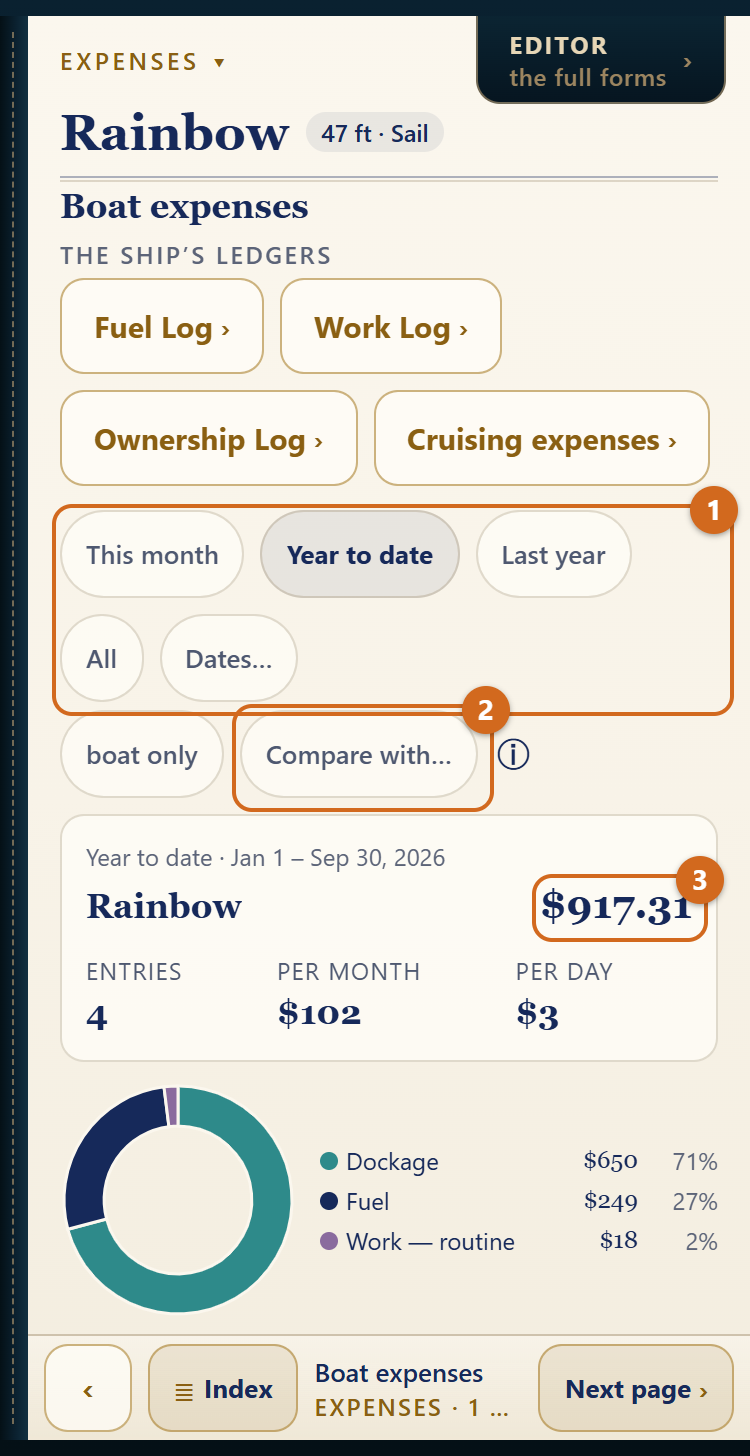
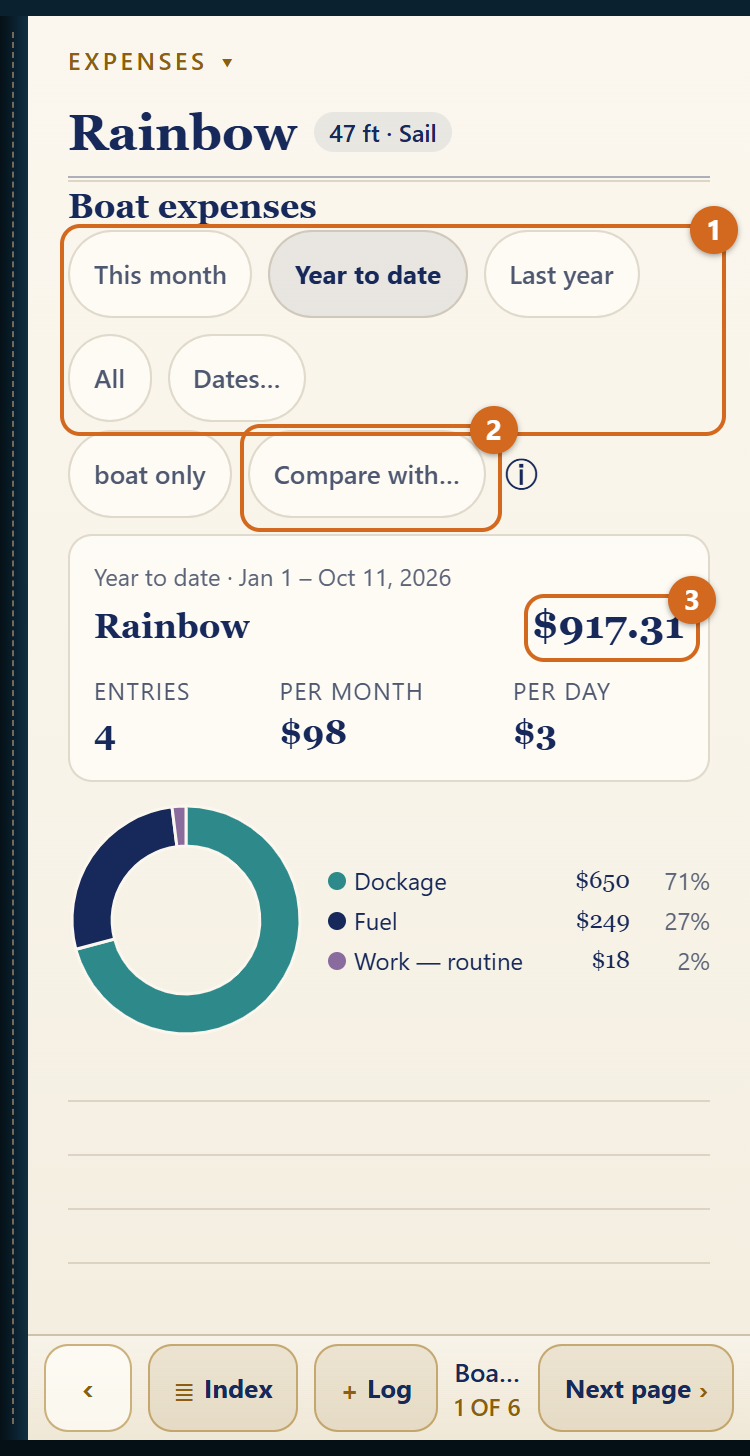
Manifest 2.3.0 release (on Jerry's word, 2026-10-12): index, support, guide and the guide's six pictures from rainbows-manifest master (pass D); privacy unchanged

diff --git a/manifest/guide.html b/manifest/guide.html
@@ -87,13 +87,13 @@
 <main>
   <h1>Rainbow&rsquo;s End Manifest — the guide</h1>
   <p class="meta">Every job in the book, in the order you meet them: setting her up, then the moments aboard, then a reference to every page. On the phone, the book’s Quick reference (at the back, after Maintenance) says where each job lives; this guide says how to do it.</p>
-  <figure><img src="guide/s6-quick-reference.png" width="375" height="728" alt="The Quick reference in the book" loading="lazy" /><figcaption><strong>The Quick reference in the book.</strong> <b class="n">1</b> A job, and where it lives: tap it to open the page. <b class="n">2</b> Check her over opens Before you go.</figcaption></figure>
-  <nav class="toc"><p class="toc-h">Contents</p><ol><li><a href="#setup">Setting her up</a></li><li><a href="#alongside">Alongside for a boarding</a></li><li><a href="#guests">At the dock with guests</a></li><li><a href="#underway">Under way</a></li><li><a href="#after">After the fact</a></li><li><a href="#yearsend">At year’s end</a></li><li><a href="#housekeeping">Housekeeping</a></li><li><a href="#pages">Every page, one line each</a></li><li><a href="#editor">The Editor’s five tabs</a></li><li><a href="#glossary">Glossary — the app’s own words</a></li></ol></nav>
+  <figure><img src="guide/s6-quick-reference.png" width="375" height="728" alt="The Quick reference in the book" loading="lazy" /><figcaption><strong>The Quick reference in the book.</strong> <b class="n">1</b> A job, and where it lives: tap it to open the page. <b class="n">2</b> Before you go opens the checks.</figcaption></figure>
+  <nav class="toc"><p class="toc-h">Contents</p><ol><li><a href="#setup">Setting up your boat</a></li><li><a href="#alongside">Alongside for a boarding</a></li><li><a href="#guests">At the dock with guests</a></li><li><a href="#underway">Under way</a></li><li><a href="#after">After the fact</a></li><li><a href="#yearsend">At year’s end</a></li><li><a href="#housekeeping">Housekeeping</a></li><li><a href="#pages">Every page, one line each</a></li><li><a href="#forms">The forms</a></li><li><a href="#glossary">Glossary — the app’s own words</a></li></ol></nav>
     <h2 class="part">Part 1 — By moment</h2>
-  <h3 id="setup">Setting her up</h3>
+  <h3 id="setup">Setting up your boat</h3>
   <h4>Start</h4>
   <ol><li>Open the app. The first page says what it does.</li><li>Tap <strong>Set up your boat</strong> to start your own, or <strong>Explore with Rainbow first</strong> to look around the sample ketch. Your own boat never mixes with Rainbow’s.</li></ol>
-  <h4>Tell it about her once</h4>
+  <h4>Tell it about your boat once</h4>
   <p>On Her papers, tap <strong>Edit boat</strong>. Four answers set the gear list: her length (LOA sets the equipment class), propulsion, fuel, and inland or coastal waters. Then, in any order:</p>
   <ul><li>Her papers and identity: registration, official number, HIN, hailing port.</li><li>Owners and radio: the owners, the people in charge, call sign, MMSI. The MAYDAY card on the briefing reads these.</li><li>Systems: heads, generator, air conditioning, propane, shore power, solar and wind, batteries.</li><li>Tanks: each fuel and water tank with its capacity, the burn rates, the water maker.</li><li>Hour meters: each engine’s and the generator’s reading today. The log’s running totals start from these, and the maintenance schedule comes due by them.</li><li>The vessel: hull color, identifying features and a photo — what a float plan or a search asks for.</li></ul>
   <p>Tap <strong>Done</strong>. Every page redraws from her. Change her length later and the Gear list redraws with it.</p>
@@ -102,38 +102,38 @@
   <h4>Another boat</h4>
   <p>Her papers › <strong>New boat</strong>. Each boat keeps her own book: gear, dates, log and ledgers never mix. The chips under The fleet switch between them.</p>
   <h3 id="alongside">Alongside for a boarding</h3>
-  <figure><img src="guide/s1-her-papers.png" width="375" height="728" alt="Her papers" loading="lazy" /><figcaption><strong>Her papers.</strong> <b class="n">1</b> What's expired or due. <b class="n">2</b> Where things are stowed. <b class="n">3</b> The day's buttons.</figcaption></figure>
+  <figure><img src="guide/s1-her-papers.png" width="375" height="728" alt="Her papers" loading="lazy" /><figcaption><strong>Her papers.</strong> <b class="n">1</b> What's expired or due. <b class="n">2</b> Where things are stowed. <b class="n">3</b> Log: the day, a fill, the work, an expense.</figcaption></figure>
   <p>The book opens on Her papers, or on the page you left if you were there in the last twelve hours.</p>
-  <ul><li><strong>Her numbers.</strong> Her papers shows the registration, official number and HIN. Owners &amp; radio, the next page, shows the call sign and MMSI.</li><li><strong>Where something is stowed.</strong> Tap <strong>Where things are stowed</strong> on Her papers, or type the item in the Index: “flares”, “extinguisher”.</li><li><strong>The required gear.</strong> Gear › What’s aboard lists the federal minimum for her, each item with its citation, its expiry and where it is stowed. Beyond the minimum follows, kept apart. The federal items are minimums; state law can add to them.</li><li><strong>What’s expired or due.</strong> The line at the head of Her papers counts it; tap it for Maintenance › Attention.</li><li><strong>Clearing in abroad.</strong> Gear › Inventory is her declaration: firearms (even “none”), equipment with serials, alcohol and tobacco, medications, food, animals. Record it in the Editor’s Gear tab; <strong>Share the list</strong> hands an official the whole thing as text.</li></ul>
+  <ul><li><strong>Her numbers.</strong> Her papers shows the registration, official number and HIN. Owners &amp; radio, the next page, shows the call sign and MMSI.</li><li><strong>Where something is stowed.</strong> Tap <strong>Where things are stowed</strong> on Her papers, or type the item in the Index: “flares”, “extinguisher”.</li><li><strong>The required gear.</strong> Gear › What’s aboard lists the federal minimum for her, each item with its citation, its expiry and where it is stowed. Beyond the minimum follows, kept apart. The federal items are minimums; state law can add to them.</li><li><strong>What’s expired or due.</strong> The line at the head of Her papers counts it; tap it for Maintenance › Attention.</li><li><strong>Clearing in abroad.</strong> Gear › Inventory is her declaration: firearms (even “none”), equipment with serials, alcohol and tobacco, medications, food, animals. Record it under <strong>Add to the inventory</strong>; <strong>Share the list</strong> hands an official the whole thing as text.</li></ul>
   <figure><img src="guide/s2-index-search.png" width="375" height="728" alt="The Index" loading="lazy" /><figcaption><strong>The Index.</strong> <b class="n">1</b> Type the item. <b class="n">2</b> Tap the page it is on.</figcaption></figure>
   <h3 id="guests">At the dock with guests</h3>
-  <h4>Check her over</h4>
+  <h4>Before you go</h4>
   <ol><li>Checklists › <strong>Before you go</strong>. The list is drawn from her: a gasoline inboard gets the blower, a sailboat her rig and jacklines.</li><li>Tick each line as you check it. Your ticks keep for the next departure.</li><li>Ticks more than a day old ask “still good?” Tap <strong>Keep them</strong>, or <strong>Start over</strong> to clear them.</li></ol>
   <figure><img src="guide/s4-before-you-go.png" width="375" height="728" alt="The Checklists page, two days after the ticks" loading="lazy" /><figcaption><strong>The Checklists page, two days after the ticks.</strong> <b class="n">1</b> The question. <b class="n">2</b> Keep them. <b class="n">3</b> Start over.</figcaption></figure>
   <p>The float plan line opens Rainbow’s End Float Plan. Leave word ashore before you leave the dock.</p>
   <h4>Brief your guests</h4>
-  <ol><li>Checklists › <strong>Briefing</strong>: four pages — calling for help, where things live, crew overboard, the rules.</li><li>Read them through with your guests aboard.</li><li>On the last page, tap <strong>Briefing given</strong>. The mark stands 24 hours; <strong>Undo</strong> takes it back.</li></ol>
+  <ol><li>Checklists › <strong>Briefing</strong>: four pages — calling for help, where things are stowed, crew overboard, the rules.</li><li>Read them through with your guests aboard.</li><li>On the last page, tap <strong>Briefing given</strong>. The mark stands 24 hours; <strong>Undo</strong> takes it back.</li></ol>
   <p>The day’s entry records both: the log reads “checked 14 of 15 · briefed 08:40“.</p>
   <h3 id="underway">Under way</h3>
   <h4>Start a voyage</h4>
   <p>A voyage is a trip under one name: a day sail, or weeks of legs and lay days.</p>
-  <ol><li>Her papers › <strong>Log the day</strong>.</li><li>Type a name under <strong>Voyage</strong> and tap <strong>Start</strong>.</li><li>Every entry collects under it until you tap <strong>End the voyage</strong> on the day’s entry. After seven days with nothing logged, the book asks whether she is still under way.</li></ol>
+  <ol><li><strong>Log</strong>, at the foot of any page › <strong>Log the day</strong>.</li><li>Type a name under <strong>Voyage</strong> and tap <strong>Start</strong>.</li><li>Every entry collects under it until you tap <strong>End the voyage</strong> on the day’s entry. After seven days with nothing logged, the book asks whether she is still under way.</li></ol>
   <h4>Log the day</h4>
-  <ol><li>Her papers › <strong>Log the day</strong>.</li><li>Choose <strong>Under way</strong> for a day that moves her, or <strong>Lay day aboard</strong> for a day at anchor or in a marina away from home.</li><li>Fill in the date, the times, where from and where to, the distance, the engine hours (the start is filled in from her hour meter), the persons aboard, the weather and the journal.</li><li>If the check or the briefing was done, their chips are on: <strong>Record the predeparture check</strong>, <strong>Record the briefing</strong>.</li><li>Tap <strong>Log the day</strong>.</li></ol>
+  <ol><li><strong>Log</strong>, at the foot of any page › <strong>Log the day</strong>.</li><li>Choose <strong>Under way</strong> for a day that moves her, or <strong>Lay day aboard</strong> for a day at anchor or in a marina away from home.</li><li>Fill in the date, the times, where from and where to, the distance, the engine hours (the start is filled in from her hour meter), the persons aboard, the weather and the journal.</li><li>If the check or the briefing was done, their chips are on: <strong>Record the predeparture check</strong>, <strong>Record the briefing</strong>.</li><li>Tap <strong>Log the day</strong>.</li></ol>
   <h4>A passage of a day or more</h4>
   <figure><img src="guide/s3-days-entry.png" width="375" height="728" alt="The day&#x27;s entry" loading="lazy" /><figcaption><strong>The day’s entry.</strong> <b class="n">1</b> The kind of day. <b class="n">2</b> Name the voyage and tap Start. <b class="n">3</b> The day she arrives, for a passage logged after the fact. Log the departure is at the foot of the page.</figcaption></figure>
   <ol><li>As you leave, fill in the day’s entry and tap <strong>Log the departure</strong>. The entry is saved as under way; every day at sea counts toward the voyage and the water estimate.</li><li>When you get in, tap <strong>Arrived</strong> at the top of the day’s entry. The same entry opens with the arrival day set.</li><li>Add the arrival time and engine hours, take the miles the watches logged, and tap <strong>Log the arrival</strong>.</li></ol>
   <p>To log a whole passage after you arrive, use the <strong>Arrives</strong> stepper under the times to set the day she got in.</p>
   <h4>The change of watch</h4>
-  <ol><li>Her papers › <strong>Log the watch</strong>, or <strong>Change of watch</strong> on the day’s entry.</li><li>Write the time in local time or UTC; the page shows the other.</li><li><strong>Fill from GPS</strong>, or type the position as you would on a chart: 29 18.4 N, 94 47.2 W.</li><li>Add course and speed, wind, sea, barometer (or tap to read the phone’s own), sky, sails, engine, and who kept the watch. Wind, sea, sky, sails and engine carry over from the last watch.</li><li>Tap <strong>Log the watch</strong>.</li></ol>
+  <ol><li><strong>Log</strong>, at the foot of any page › <strong>Log the watch</strong>, or <strong>Change of watch</strong> on the day’s entry.</li><li>Write the time in local time or UTC; the page shows the other.</li><li><strong>Fill from GPS</strong>, or type the position as you would on a chart: 29 18.4 N, 94 47.2 W.</li><li>Add course and speed, wind, sea, barometer (or tap to read the phone’s own), sky, sails, engine, and who kept the watch. Wind, sea, sky, sails and engine carry over from the last watch.</li><li>Tap <strong>Log the watch</strong>.</li></ol>
   <p>From the second position on, the page works out the distance, speed and course made good. The barometer’s three-hour trend is given in the forecast’s words, and a quick fall is flagged. Watches add no miles or hours to the voyage.</p>
   <h4>Fuel and water aboard</h4>
   <p>Log › Estimated fuel &amp; water. Each figure is an estimate and says what it runs from: a measured level, a fill marked topped off, or nothing yet. The gauge outranks the arithmetic.</p>
   <h3 id="after">After the fact</h3>
   <h4>Log a fill</h4>
-  <ol><li>Her papers › <strong>Log a fill</strong>. The form opens over the Fuel Log.</li><li>Fill in the date, gallons, price and dock. Mark <strong>topped off</strong> if she was; the estimate starts over from full.</li><li>The voyage chip proposes the voyage for that date. Tap another, or <strong>none</strong>.</li><li>Tap <strong>Log the fill</strong>.</li></ol>
+  <ol><li><strong>Log</strong>, at the foot of any page › <strong>Log a fill</strong>. The form opens over the Fuel Log.</li><li>Fill in the date, gallons, price and dock. Mark <strong>topped off</strong> if she was; the estimate starts over from full.</li><li>The voyage chip proposes the voyage for that date. Tap another, or <strong>none</strong>.</li><li>Tap <strong>Log the fill</strong>.</li></ol>
   <h4>Log the work, a cost or an expense</h4>
-  <ul><li><strong>The work</strong> — repairs, routine maintenance, equipment added: Her papers › <strong>Log the work</strong>.</li><li><strong>A cost</strong> — the home slip, storage, insurance, registration, dues: Her papers › <strong>Log a cost</strong>.</li><li><strong>An expense on a voyage</strong> — provisions, meals ashore, fees and permits, transport ashore, moorings and transient slips: Her papers › <strong>Log an expense</strong> (the button reads so while a voyage is under way). The ⓘ beside Category says what each category takes.</li></ul>
+  <ul><li><strong>The work</strong> — repairs, routine maintenance, equipment added: <strong>Log</strong> › <strong>Log the work</strong>.</li><li><strong>An expense of the boat</strong> — the home slip, storage, insurance, registration, dues: <strong>Log</strong> › <strong>Log an expense</strong>.</li><li><strong>An expense on a voyage</strong> — provisions, meals ashore, fees and permits, transport ashore, moorings and transient slips: <strong>Log</strong> › <strong>Log an expense</strong> while a voyage is under way. The ⓘ beside Category says what each category takes.</li></ul>
   <h4>Measure a tank</h4>
   <ul><li>Fuel: Expenses › Fuel Log › <strong>Measure</strong> on the tank’s line. Set the level by the quarters or in gallons.</li><li>Water: Log › Estimated fuel &amp; water: <strong>Topped off today</strong>, or type the measured level.</li></ul>
   <h4>Correct or delete an entry</h4>
@@ -144,7 +144,7 @@
   <h3 id="yearsend">At year’s end</h3>
   <h4>Choose the dates</h4>
   <p>Every ledger and the log open on year to date. At the head of the record, tap <strong>This month</strong>, <strong>Year to date</strong>, <strong>Last year</strong>, <strong>All</strong> or <strong>Dates…</strong>. The choice carries from page to page while the app is open.</p>
-  <h4>What she cost</h4>
+  <h4>What the voyage cost</h4>
   <ol><li>Expenses › <strong>Boat expenses</strong>: the total for the dates, by category. It counts fuel, work and ownership; tap the <strong>boat only</strong> chip to add the fourth ledger, and it reads <strong>with cruising expenses</strong>.</li><li>Tap <strong>Compare with…</strong> to set a second period beside it — the same dates last year, the whole of last year, or dates you type — with the difference in dollars and percent.</li></ol>
   <figure><img src="guide/s5-boat-expenses.png" width="375" height="728" alt="Boat expenses" loading="lazy" /><figcaption><strong>Boat expenses.</strong> <b class="n">1</b> The dates. <b class="n">2</b> Compare with…. <b class="n">3</b> The total for the dates.</figcaption></figure>
   <h4>Send the year’s expenses</h4>
@@ -152,7 +152,7 @@
   <h4>What a voyage cost</h4>
   <p>Log › <strong>Voyage expenses</strong>, the page after the voyage card: the total, per day and per nautical mile, by category, from all four ledgers. Entries in the voyage’s dates without a voyage are listed with a button to assign them.</p>
   <h4>Sea service</h4>
-  <p>Log › <strong>Sea service</strong> tallies what the CG-719S asks for each year: the days (four hours or more under way, by default), the hours, the dates and the waters. Set the waters on each day’s entry, and gross tonnage on the Editor’s Boat tab. Tap <strong>Share as text</strong> to copy the figures onto the form. You attest them; the app prepares them.</p>
+  <p>Log › <strong>Sea service</strong> tallies what the CG-719S asks for each year: the days (four hours or more under way, by default), the hours, the dates and the waters. Set the waters on each day’s entry, and gross tonnage under Edit boat. Tap <strong>Share as text</strong> to copy the figures onto the form. You attest them; the app prepares them.</p>
   <h4>A voyage’s track</h4>
   <p>Log › The log › <strong>Share as GPX</strong> on the voyage card: a track for each passage, a point for each watch that carried a position. Open it in your chart app.</p>
   <h3 id="housekeeping">Housekeeping</h3>
@@ -177,9 +177,9 @@
   <h4>The Boat</h4>
   <ul><li>Her papers — what’s due, the stowage door, the day’s buttons, the fleet, her identity.</li><li>Owners &amp; radio — call sign, MMSI, owners and who’s in charge.</li><li>Dimensions &amp; propulsion — LOA, beam, draft, air draft; engines; waters.</li><li>Systems aboard — heads, generator, air conditioning, propane, sea water.</li><li>Power — shore power, wind, solar, batteries.</li><li>Capacities — tanks and burn rates.</li></ul>
   <h4>Gear</h4>
-  <ul><li>What’s aboard — the federal minimum for her, with expiry and stowage.</li><li>Federal requirements, continued — the rest of the minimum.</li><li>Beyond the minimum — the recommended gear.</li><li>Inventory — the declaration for clearing in.</li></ul>
+  <ul><li>What’s aboard — the federal minimum for her, with expiry and stowage.</li><li>Beyond the minimum — the recommended gear.</li><li>Inventory — the declaration for clearing in.</li></ul>
   <h4>Checklists</h4>
-  <ul><li>Checklists — the doors to Before you go and the briefing.</li><li>Before you go — the boat; on deck — the skipper’s predeparture check.</li><li>Briefing — calling for help; where things live; crew overboard; the rules — the passenger briefing, Briefing given on the last.</li></ul>
+  <ul><li>Checklists — the doors to Before you go and the briefing.</li><li>Before you go — the boat; on deck — the skipper’s predeparture check.</li><li>Briefing — calling for help; where things are stowed; crew overboard; the rules — the passenger briefing, Briefing given on the last.</li></ul>
   <h4>Log</h4>
   <ul><li>Estimated fuel &amp; water — what is aboard, and what each figure runs from.</li><li>The day’s entry — a day under way, a lay day, a passage.</li><li>The change of watch — while under way, or once asked for.</li><li>The log — the days, the voyage card, the miles under her keel.</li><li>Voyage expenses — what a voyage cost.</li><li>Sea service — the figures for the CG-719S.</li><li>The watches — the watches logged, newest first.</li></ul>
   <h4>Expenses</h4>
@@ -187,10 +187,10 @@
   <h4>Maintenance</h4>
   <ul><li>Attention — what is expired, overdue or due soon.</li><li>The schedule — every item, its last date and hour meter.</li></ul>
   <h4>Quick reference</h4>
-  <ul><li>Four pages: where each job lives.</li></ul>
-  <h3 id="editor">The Editor’s five tabs</h3>
-  <p>Open the Editor from the tab at the top of any page; <strong>The Book</strong> on its bar brings you back.</p>
-  <ul><li><strong>Boat</strong> — the full manifest, the fleet, iCloud sync, Export and Import.</li><li><strong>Gear</strong> — every item, aboard or not, its stowage and dates; the Inventory.</li><li><strong>Briefing</strong> — the briefing in one scroll, and Briefing given.</li><li><strong>Log</strong> — every day and voyage, searchable by name, place, weather, journal or date.</li><li><strong>Maintenance</strong> — the whole schedule, and the ledgers’ totals by month, year and category.</li></ul>
+  <ul><li>Where each job lives — one page.</li></ul>
+  <h3 id="forms">The forms</h3>
+  <p>Each opens over its page; <strong>Done</strong> returns you.</p>
+  <ul><li><strong>Edit boat</strong>, on Her papers — the full manifest, the fleet, iCloud sync, Export and Import; About this app at its foot.</li><li><strong>Log the gear</strong> and <strong>Add to the inventory</strong>, on the Gear pages — every item, aboard or not, its stowage and dates; the Inventory.</li><li><strong>Every entry</strong>, on The log — every day and voyage, searchable by name, place, weather, journal or date, with Arrived and Delete.</li></ul>
   <h3 id="glossary">Glossary — the app’s own words</h3>
   <ul><li><strong>Federal minimum</strong> — what 33 CFR and 46 CFR require her to carry.</li><li><strong>Beyond the minimum</strong> — gear the app recommends; never counted as required.</li><li><strong>Hard date</strong> — a legal or safety expiration. Past it, the gear doesn’t count.</li><li><strong>Attention</strong> — everything expired or overdue, expirations within 60 days, service within 30 days or its hour margin.</li><li><strong>Replace, Inspect, Test, Clean, Exercise, Service, Renew</strong> — what the maintenance job is. Replace means new on schedule; Inspect means replace only what is worn.</li><li><strong>Voyage</strong> — entries collected under one name until you end it.</li><li><strong>Leg</strong> — a day’s entry under way.</li><li><strong>Lay day</strong> — a day aboard without getting under way.</li><li><strong>Passage</strong> — a leg logged at departure and finished on arrival, however many days between.</li><li><strong>Watch</strong> — a change-of-watch record: time, position, weather. It adds no miles or hours.</li><li><strong>Estimate</strong> — a figure worked out, not read from a gauge. Each says what it runs from.</li><li><strong>Hour meter</strong> — an engine’s or generator’s running-hours meter.</li><li><strong>Persons aboard</strong> — on a day’s entry, the people aboard that day; on Gear, the most she is equipped for.</li><li><strong>The four ledgers</strong> — Fuel Log, Work Log, Ownership Log, Cruising expenses.</li><li><strong>Transport ashore</strong> — taxis, rental cars, ferries, excursions once you have arrived.</li><li><strong>Sea-service day</strong> — a calendar day with four hours or more under way (the threshold can be set to eight or twelve).</li><li><strong>Sounding</strong> — a tank’s level measured, by quarters or in gallons.</li></ul>
   <div class="contact">

diff --git a/manifest/support.html b/manifest/support.html
@@ -118,22 +118,19 @@
     Log, Expenses, and Maintenance. Held broad, on an iPad or a larger iPhone in landscape, the
     sections are leather tabs down the right edge and the book opens flat into a two-page
     spread; held narrow, one page at a time. The <strong>Index</strong> button at the foot of
-    every page lists every section and page and finds anything on them — flares, HIN, fuel.
+    every page lists the sections, opens any of them to its pages, and finds anything on them — flares, HIN, fuel.
     The book opens where you left it, and, while a passage is under way, on the day&rsquo;s entry.
     Every page reads from your real records.</p>
   </details>
 
   <details>
-    <summary>How do the book and the Editor relate?</summary>
-    <p>The book is for <strong>reviewing the record and making the day&rsquo;s entries</strong> —
-    reading her papers, checking what&rsquo;s aboard and where it&rsquo;s stowed, giving the briefing,
-    logging a day, a fill, work done, or a cost. The <strong>Editor</strong> holds every field
-    of every record, with search, and its own bar; <strong>The Book</strong>, leftmost on that
-    bar, brings you home. Open the Editor from the leather tab at the top of every page, or the
-    last row of the Index. For a single edit the book floats the form over the page instead —
-    <strong>Edit boat</strong> on the Boat pages, <strong>Log the gear</strong> on the Gear
-    pages — and <strong>Done</strong> returns you to your page. In the ledgers, tap an entry to
-    correct it in a sheet over the page.</p>
+    <summary>Where are the full forms?</summary>
+    <p>Over the page they belong to. <strong>Edit boat</strong> on Her papers opens the whole
+    manifest; <strong>Log the gear</strong> and <strong>Add to the inventory</strong> on the Gear
+    pages open the gear list; <strong>Every entry</strong> on The log opens the searchable log, with
+    Arrived and Delete on each day. <strong>Done</strong> returns you to your page. In the ledgers,
+    tap an entry to correct it in a sheet over the page. The <strong>Log</strong> button at the
+    foot of every page writes the day, a fill, the work or an expense.</p>
   </details>
 
   <h2>The checklist</h2>
@@ -168,8 +165,8 @@
     <p>Her standing declaration for clearing into another country, at the end of the Gear
     section: a firearms list (even &ldquo;none&rdquo; — that answer is itself the declaration), equipment
     and electronics with serials for temporary-import permits, dutiable alcohol and tobacco,
-    medications, foodstuffs for biosecurity, and animals. Record it once in the Editor&rsquo;s Gear
-    tab; <strong>Share the list</strong> hands an official the whole thing as plain text —
+    medications, foodstuffs for biosecurity, and animals. Record it once under Add to the inventory,
+    on the Inventory page; <strong>Share the list</strong> hands an official the whole thing as plain text —
     AirDrop it, print it, or show the page.</p>
   </details>
 
@@ -177,16 +174,15 @@
 
   <details>
     <summary>Why does the briefing show &ldquo;location not recorded&rdquo;?</summary>
-    <p>The briefing reads from the Gear tab. Check an item aboard and enter where it&rsquo;s stowed —
-    &ldquo;port cockpit locker&rdquo; — and the briefing&rsquo;s &ldquo;Where things live&rdquo; section says exactly that to
-    your guests. The MAYDAY card fills in your boat&rsquo;s name, call sign, and MMSI from the
-    Boat tab.</p>
+    <p>The briefing reads from the Gear pages. Check an item aboard and enter where it&rsquo;s stowed —
+    &ldquo;port cockpit locker&rdquo; — and the briefing&rsquo;s &ldquo;Where things are stowed&rdquo; page says exactly that to
+    your guests. The MAYDAY card fills in your boat&rsquo;s name, call sign, and MMSI from
+    Edit boat.</p>
   </details>
 
   <details>
     <summary>How do I record that my guests were briefed?</summary>
-    <p>Tap <strong>Briefing given</strong> at the end of the briefing, or at the foot of the Editor&rsquo;s
-    Briefing tab. <a href="guide.html#guests">Step by step in the guide&nbsp;&rsaquo;</a></p>
+    <p>Tap <strong>Briefing given</strong> at the end of the briefing. <a href="guide.html#guests">Step by step in the guide&nbsp;&rsaquo;</a></p>
   </details>
 
   <h2>The log</h2>
@@ -199,7 +195,7 @@
     strainer, a sailboat gets her rig and jacklines, a paddle craft keeps the short list. The
     lines print what the book already knows — the fuel and water estimates, the flare and
     extinguisher dates from Maintenance. Your ticks stay until the next departure. The leg you log records what was checked — the log
-    reads &ldquo;checked 14 of 15&rdquo;, and the Editor&rsquo;s card names the items missed — and the list clears
+    reads &ldquo;checked 14 of 15&rdquo;, and Every entry names the items missed — and the list clears
     for the next one. <strong>Start over</strong> clears it by hand. Ticks more than a day old ask
     whether they still hold.</p>
   </details>
@@ -208,14 +204,14 @@
     <summary>What&rsquo;s at the top of the first page?</summary>
     <p>What needs you, then the day&rsquo;s work. A line counts what is expired, overdue or due soon and
     opens the Attention page; <strong>Where things are stowed</strong> opens the briefing&rsquo;s page of
-    where each item lives. Then Log the day, Log a fill, Log the work and Log a cost — Log an
-    expense while a voyage is under way — each open its form. The rest of the page is her papers,
+    where each item lives. Then <strong>Log</strong>, at the foot of every page: the day, a fill,
+    the work, an expense. The rest of the page is her papers,
     and the fleet row beneath Edit boat switches boats mid-read.</p>
   </details>
 
   <details>
     <summary>What&rsquo;s a voyage? What&rsquo;s a lay day?</summary>
-    <p>Start a voyage — right on the day&rsquo;s-entry page or in the Editor — name it, and every
+    <p>Start a voyage right on the day&rsquo;s-entry page: name it, and every
     entry, legs and lay days alike, collects under it until you end it. A <strong>lay day</strong> is a day aboard without getting under
     way (at anchor, in a marina away from home): it keeps the water estimate honest and can log
     generator hours. Past voyages sit collapsed with their totals — days, legs, nautical miles, engine hours —
@@ -235,7 +231,7 @@
 
   <details>
     <summary>How do engine hours and the miles under her keel work?</summary>
-    <p>Enter each meter&rsquo;s reading on the Editor&rsquo;s Boat tab and the day&rsquo;s entry pre-fills
+    <p>Enter each meter&rsquo;s reading under Edit boat and the day&rsquo;s entry pre-fills
     &ldquo;Engine — start&rdquo; with the running total; log the finish reading and the total moves
     forward. Correct the figure on the Boat tab any time and the total restarts from the
     number you just entered. The miles under her keel work the same way: give the book the
@@ -259,7 +255,7 @@
   <details>
     <summary>Can I put photos on a day in the log?</summary>
     <p>Yes, up to twelve a day. On the day&rsquo;s entry before you log it, or on a logged day in the
-    book&rsquo;s log pages or on the Editor&rsquo;s Log tab, tap <strong>Add photos</strong> to choose from your library, or <strong>Take a
+    book&rsquo;s log pages or under Every entry, tap <strong>Add photos</strong> to choose from your library, or <strong>Take a
     photo</strong>. The app keeps a 1,200-pixel copy and a thumbnail, about 200&nbsp;KB a photo;
     your originals stay in the Photos app at full size. A strip of thumbnails sits under the
     day; tap one for the full-screen viewer, where you can swipe through the day, write a
@@ -314,8 +310,8 @@
     the home slip and storage, insurance, registration and taxes, utilities, dues. The
     <strong>Cruising expenses</strong> ledger: what a voyage spends beyond the boat herself —
     provisions, meals ashore, fees and permits, transport ashore, and the moorings and transient
-    slips along the way. Buttons at the head of the Expenses page jump to each ledger, and the
-    Maintenance tab in the Editor keeps the tally: totals by month, year, and category. Every entry in every ledger can name the voyage it
+    slips along the way. The four ledgers follow the Boat expenses pages, which
+    keep the tally: totals by month, year, and category. Every entry in every ledger can name the voyage it
     belongs to; the form proposes one from the date, and &ldquo;none&rdquo; is a real answer.
     Entries without a price still belong in their logs; they do not tally.</p>
   </details>
@@ -324,7 +320,7 @@
     <summary>Where are my older entries?</summary>
     <p>In the same record, a tap away. Each ledger and the log open on year to date; tap
     <strong>Last year</strong>, <strong>All</strong>, or <strong>Dates…</strong> at the head of the record, and every entry in those
-    dates is there, running onto more pages as it needs. The choice carries from one ledger to the
+    dates is there, on one page that scrolls. The choice carries from one ledger to the
     next while the app is open.</p>
   </details>
 
@@ -348,13 +344,13 @@
     the first and last dates, and the split by waters. A day is a calendar day; a passage spanning
     days credits each by its share of the hours; lay days never count. The waters — Inland,
     Near-coastal, Great Lakes, Oceans — are set on each day&rsquo;s entry, the boat&rsquo;s own setting the
-    fallback. Gross tonnage, which the form asks, has a field on the Editor&rsquo;s Boat tab.
+    fallback. Gross tonnage, which the form asks, has a field under Edit boat.
     <strong>Share as text</strong> hands the summary to the share sheet shaped for copying onto the form.</p>
   </details>
 
   <details>
     <summary>Can I get a voyage&rsquo;s track into my chart app?</summary>
-    <p>Yes, as GPX. The voyage card in the Log — and the voyage&rsquo;s group on the Editor&rsquo;s Log tab —
+    <p>Yes, as GPX. The voyage card in the Log — and the voyage&rsquo;s group under Every entry —
     has <strong>Share as GPX</strong>: one file for the voyage, a track per passage, each watch that
     carried a position a point in UTC. The track is exactly as dense as the watches were — a
     four-hour schedule gives a point every four hours — because the app keeps watches, not a
@@ -422,7 +418,7 @@
     the item comes due at <strong>whichever arrives first</strong>, the months or the hours —
     exactly what &ldquo;100 h or annually&rdquo; has always meant. A boat that sat all winter comes due
     by the calendar; a boat that crossed the Gulf in May comes due by the hours. If you haven&rsquo;t set
-    the hour-meter readings on the Editor&rsquo;s Boat tab, nothing changes — the schedule runs on the
+    the hour-meter readings under Edit boat, nothing changes — the schedule runs on the
     calendar alone, as before. Shared items like the Racor separators score against the
     hardest-working engine&rsquo;s meter.</p>
   </details>

diff --git a/manifest/index.html b/manifest/index.html
@@ -76,17 +76,17 @@
         generator to a diesel boat and the ventilation rules come with it.</span></li>
       <li><strong>A briefing written from where your gear is</strong><span>Record that the
         flares live in the port cockpit locker and the passenger briefing says so, in those words. It
-        carries a MAYDAY card with her name, call sign, and MMSI already filled in, and the
+        carries a MAYDAY card with your boat&rsquo;s name, call sign, and MMSI already filled in, and the
         crew-overboard drill: shout, point, throw, press. No generic script to edit.</span></li>
       <li><strong>Her expirations and intervals arrive preset</strong><span>Documentation renewal,
         EPIRB registration, flares, and extinguishers come with their legal rules. Service intervals
-        come filtered to her systems &mdash; twins get port and starboard lines, each fuel separator its
+        come filtered to your boat&rsquo;s systems &mdash; twins get port and starboard lines, each fuel separator its
         own &mdash; and engine items come due by the calendar or the hour meter, whichever arrives
         first. A 60-day lookahead shows what needs the skipper&rsquo;s attention.</span></li>
       <li><strong>One book, entered once</strong><span>Log apps keep the log. Maintenance apps keep the
         schedule. The safety list is usually a clipboard. Manifest keeps the gear, the briefing, the
         predeparture checklist, the log, and the schedule in one book that reads from one manifest:
-        change her length or add a system and every page follows.</span></li>
+        change the boat&rsquo;s length or add a system and every page follows.</span></li>
       <li><strong>Bought once, kept by you</strong><span>No account, no server of ours, no
         subscription, no tracking; the App Store privacy label reads Data Not Collected. The GPS is read
         only when you tap for a position on a watch. Manifest never records a track behind your back,
@@ -109,10 +109,10 @@
         &mdash; firearms, serials, stores, foodstuffs, animals &mdash; shared with an official as plain
         text.</span></li>
       <li><strong>Briefing</strong><span>A passenger safety walkthrough generated from your gear map:
-        where things live, a MAYDAY card with your boat&rsquo;s name, call sign, and MMSI filled in, the
+        where things are stowed, a MAYDAY card with your boat&rsquo;s name, call sign, and MMSI filled in, the
         crew-overboard drill, and the house rules, from water discipline to PFDs, tethers, and jacklines
         at night, offshore, and in heavy weather. Tap Briefing given and the day&rsquo;s entry records it.</span></li>
-      <li><strong>Before you go</strong><span>A predeparture checklist drawn from her manifest, not a
+      <li><strong>Before you go</strong><span>A predeparture checklist drawn from your boat&rsquo;s manifest, not a
         laminated generic: the blower on a gasoline inboard, the rig and jacklines on a sailboat, the
         generator&rsquo;s strainer when one is aboard, the paddler&rsquo;s short list on a canoe. The fuel
         and water estimates and the flare and extinguisher dates print right on the lines. The leg you log records what was checked, and the float plan is a tap away.</span></li>
@@ -120,7 +120,7 @@
         lay days, the persons aboard, voyages that collect entries until you end them with their
         nautical miles and engine hours totaled, and a search that finds any day by place, journal, or
         date. Fuel and water estimates that refuse to guess: top off or enter a measured level and the
-        arithmetic runs from there. A powerboat prices her day by hours at trawling, fast cruise, and
+        arithmetic runs from there. A powerboat prices its day by hours at trawling, fast cruise, and
         wide open, against her own three rates.</span></li>
       <li><strong>On passage</strong><span>Log the departure as you leave and finish the same entry when
         you arrive; every day at sea counts toward the voyage and the water. At each change of watch,
@@ -141,15 +141,15 @@
         form&rsquo;s days of service by year &mdash; the four-hour day, the hours, the dates, the waters
         set per leg &mdash; and shares the summary as text; you attest it. Share as GPX hands a chart
         app the voyage&rsquo;s watches as a track.</span></li>
-      <li><strong>Maintenance</strong><span>Service intervals seeded and filtered to her systems, each saying what the job is, hard legal
+      <li><strong>Maintenance</strong><span>Service intervals seeded and filtered to your boat&rsquo;s systems, each saying what the job is, hard legal
         expirations preset, and an Attention list of what needs the skipper&rsquo;s attention.
         Engine and generator items watch the running hour meters too: oil comes due at whichever arrives
         first, the months or the hours. Four ledgers &mdash; Fuel, Work, Ownership, and Cruising expenses
         &mdash; tally what she costs by month, year, and category, and an Expenses tab adds them up over any dates, sets this year against last, and exports
         them as a CSV or a PDF.</span></li>
       <li><strong>The book</strong><span>The day&rsquo;s entries are one tap from where it opens: a
-        day, a fill, work done, a cost. The Editor holds every field of every record, and The Book
-        brings you home.</span></li>
+        day, a fill, work done, an expense. Every form opens over the page it belongs to and closes
+        with Done.</span></li>
       <li><strong>Her fleet</strong><span>More than one boat, each with her own complete book: the
         dinghy, a charter, a friend&rsquo;s boat. Export the whole book to a file you control and import
         it on a new phone or your iPad.</span></li>
@@ -185,7 +185,7 @@
 
     <h2>More</h2>
     <ul class="links">
-      <li><a href="support.html">Support &amp; FAQ<span>The book, the Editor, gear, briefing, log, passages and watches, expenses, photos, sea service and GPX, maintenance, and iCloud sync.</span></a></li>
+      <li><a href="support.html">Support &amp; FAQ<span>The book, gear, briefing, log, passages and watches, expenses, photos, sea service and GPX, maintenance, and iCloud sync.</span></a></li>
       <li><a href="guide.html">The guide<span>Every job in the book, step by step, in the order you meet them aboard. Prints.</span></a></li>
       <li><a href="privacy.html">Privacy Policy<span>Collects nothing; sync, if you switch it on, travels only through your own iCloud.</span></a></li>
       <!-- family:start · stamped from rainbows-dashboard/brand/siblings.json by scripts/stamp-siblings.mjs; edit the list there, not here -->
